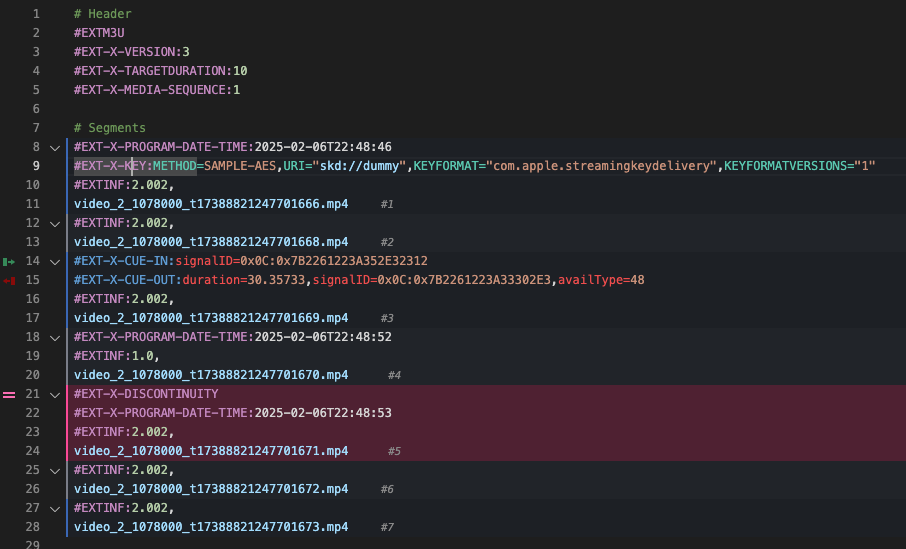
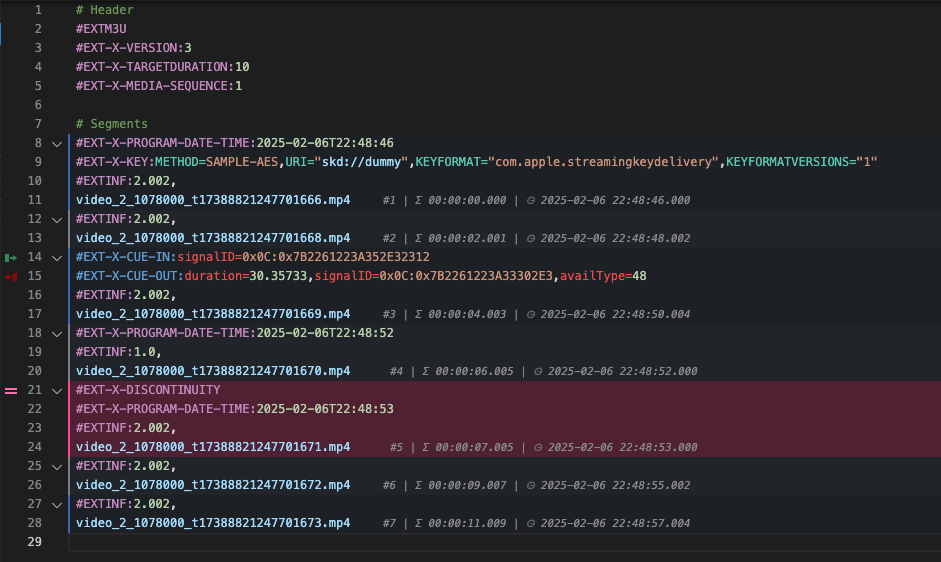
feature: running duration and segment PDT

diff --git a/src/extension.ts b/src/extension.ts
@@ -68,10 +68,12 @@ function getConfiguration() {
     });
 
     return {
-        colorBanding: config.get('colorBanding', true),
-        segmentNumbering: config.get('segmentNumbering', true),
-        folding: config.get('folding', true),
-        gutterIcons: config.get('gutterIcons', true),
+        colorBanding: config.get<boolean>('colorBanding', true),
+        segmentNumbering: config.get<boolean>('segmentNumbering', true),
+        showRunningDuration: config.get<boolean>('showRunningDuration', true),
+        showProgramDateTime: config.get<boolean>('showProgramDateTime', true),
+        folding: config.get<boolean>('folding', true),
+        gutterIcons: config.get<boolean>('gutterIcons', true),
         tagColors,
         defaultColors: config.get<DefaultColors>('defaultColors', {
             odd: {
@@ -432,7 +434,6 @@ function updateDecorations(editor: vscode.TextEditor, context: vscode.ExtensionC
 
     // Load tag definitions
     const tagDefinitions = loadHLSTagDefinitions(context);
-
     const config = getConfiguration();
     const decorationsMap = new Map<string, vscode.DecorationOptions[]>();
     decorationTypes.forEach((_, key) => decorationsMap.set(key, []));
@@ -455,6 +456,13 @@ function updateDecorations(editor: vscode.TextEditor, context: vscode.ExtensionC
     let segmentCount = 0;
     let currentSegmentDecorations: vscode.DecorationOptions[] = [];
     let currentSegmentTags: Set<string> = new Set();
+
+    // Track running duration and program date time
+    let runningDuration = 0;
+    let currentSegmentDuration = 0;
+    let lastPDT: Date | null = null;  // Last PDT (explicit or calculated)
+    let currentExplicitPDT: Date | null = null;  // Explicit PDT for current segment
+    let lastSegmentDuration = 0;  // Duration of the last segment
 
     // Add base decoration for every line
     for (let i = 0; i < document.lineCount; i++) {
@@ -486,6 +494,18 @@ function updateDecorations(editor: vscode.TextEditor, context: vscode.ExtensionC
                 }
             } else if (text.startsWith('#EXT-X-I-FRAME-STREAM-INF:')) {
                 iFrameStreamInfDecorations.push({ range: line.range });
+            } else if (text.startsWith('#EXTINF:')) {
+                // Extract duration from EXTINF tag
+                const durationMatch = text.match(/#EXTINF:([0-9.]+)/);
+                if (durationMatch) {
+                    currentSegmentDuration = parseFloat(durationMatch[1]);
+                }
+            } else if (text.startsWith('#EXT-X-PROGRAM-DATE-TIME:')) {
+                // Extract program date time for current segment
+                const pdtMatch = text.match(/#EXT-X-PROGRAM-DATE-TIME:(.+)/);
+                if (pdtMatch) {
+                    currentExplicitPDT = parseDateTime(pdtMatch[1]);
+                }
             }
 
             // Handle JSON-defined icons and special cases
@@ -545,22 +565,42 @@ function updateDecorations(editor: vscode.TextEditor, context: vscode.ExtensionC
         } else if (!text.startsWith('#')) {
             // Found a URI line
             if (isInSegment) {
-                // Create decoration for this line with segment number
+                // Determine PDT for this segment
+                let segmentPDT: Date | null = null;
+                if (currentExplicitPDT) {
+                    // Use explicit PDT if available
+                    segmentPDT = currentExplicitPDT;
+                    lastPDT = currentExplicitPDT;
+                } else if (lastPDT) {
+                    // Calculate PDT based on last PDT and last segment duration
+                    segmentPDT = new Date(lastPDT.getTime() + lastSegmentDuration * 1000);
+                    lastPDT = segmentPDT;
+                }
+
+                // Create decoration for this line with segment number and timing information
                 const range = line.range;
                 const decoration = {
                     range,
-                    renderOptions: config.segmentNumbering ? {
+                    renderOptions: {
                         after: {
-                            contentText: `#${segmentCount}`,
+                            contentText: [
+                                config.segmentNumbering ? `#${segmentCount}` : '',
+                                config.showRunningDuration ? `Σ ${formatDuration(runningDuration)}` : '',
+                                (config.showProgramDateTime && segmentPDT) ? `⏲ ${formatDateTime(segmentPDT)}` : ''
+                            ].filter(Boolean).join(' | '),
                             color: '#888',
                             margin: '0 3em',
                             backgroundColor: 'transparent',
                             fontStyle: 'italic',
                             fontSize: '90%'
                         }
-                    } : undefined
+                    }
                 };
                 currentSegmentDecorations.push(decoration);
+
+                // Update running duration and store current duration for next segment's PDT calculation
+                runningDuration += currentSegmentDuration;
+                lastSegmentDuration = currentSegmentDuration;
 
                 // Add decorations to appropriate collection if color banding is enabled
                 if (config.colorBanding) {
@@ -581,6 +621,8 @@ function updateDecorations(editor: vscode.TextEditor, context: vscode.ExtensionC
                 isInSegment = false;
                 currentSegmentDecorations = [];
                 currentSegmentTags.clear();
+                currentSegmentDuration = 0;
+                currentExplicitPDT = null;  // Reset explicit PDT for next segment
             }
         }
     }
@@ -634,4 +676,25 @@ export function deactivate() {
     cueDecorationType?.dispose();
     tagIconDecorationTypes.forEach(type => type.dispose());
     tagIconDecorationTypes.clear();
+}
+
+function formatDuration(durationInSeconds: number): string {
+    const hours = Math.floor(durationInSeconds / 3600);
+    const minutes = Math.floor((durationInSeconds % 3600) / 60);
+    const seconds = Math.floor(durationInSeconds % 60);
+    const milliseconds = Math.floor((durationInSeconds % 1) * 1000);
+
+    return `${hours.toString().padStart(2, '0')}:${minutes.toString().padStart(2, '0')}:${seconds.toString().padStart(2, '0')}.${milliseconds.toString().padStart(3, '0')}`;
+}
+
+function parseDateTime(dateTimeStr: string): Date | null {
+    try {
+        return new Date(dateTimeStr);
+    } catch {
+        return null;
+    }
+}
+
+function formatDateTime(date: Date): string {
+    return date.toISOString().replace('T', ' ').replace('Z', '');
 } 

diff --git a/out/extension.js b/out/extension.js
@@ -50,6 +50,8 @@ function getConfiguration() {
     return {
         colorBanding: config.get('colorBanding', true),
         segmentNumbering: config.get('segmentNumbering', true),
+        showRunningDuration: config.get('showRunningDuration', true),
+        showProgramDateTime: config.get('showProgramDateTime', true),
         folding: config.get('folding', true),
         gutterIcons: config.get('gutterIcons', true),
         tagColors,
@@ -365,6 +367,12 @@ function updateDecorations(editor, context) {
     let segmentCount = 0;
     let currentSegmentDecorations = [];
     let currentSegmentTags = new Set();
+    // Track running duration and program date time
+    let runningDuration = 0;
+    let currentSegmentDuration = 0;
+    let lastPDT = null; // Last PDT (explicit or calculated)
+    let currentExplicitPDT = null; // Explicit PDT for current segment
+    let lastSegmentDuration = 0; // Duration of the last segment
     // Add base decoration for every line
     for (let i = 0; i < document.lineCount; i++) {
         const line = document.lineAt(i);
@@ -395,6 +403,20 @@ function updateDecorations(editor, context) {
             }
             else if (text.startsWith('#EXT-X-I-FRAME-STREAM-INF:')) {
                 iFrameStreamInfDecorations.push({ range: line.range });
+            }
+            else if (text.startsWith('#EXTINF:')) {
+                // Extract duration from EXTINF tag
+                const durationMatch = text.match(/#EXTINF:([0-9.]+)/);
+                if (durationMatch) {
+                    currentSegmentDuration = parseFloat(durationMatch[1]);
+                }
+            }
+            else if (text.startsWith('#EXT-X-PROGRAM-DATE-TIME:')) {
+                // Extract program date time for current segment
+                const pdtMatch = text.match(/#EXT-X-PROGRAM-DATE-TIME:(.+)/);
+                if (pdtMatch) {
+                    currentExplicitPDT = parseDateTime(pdtMatch[1]);
+                }
             }
             // Handle JSON-defined icons and special cases
             const iconType = getIconForTag(text, tagDefinitions);
@@ -450,22 +472,41 @@ function updateDecorations(editor, context) {
         else if (!text.startsWith('#')) {
             // Found a URI line
             if (isInSegment) {
-                // Create decoration for this line with segment number
+                // Determine PDT for this segment
+                let segmentPDT = null;
+                if (currentExplicitPDT) {
+                    // Use explicit PDT if available
+                    segmentPDT = currentExplicitPDT;
+                    lastPDT = currentExplicitPDT;
+                }
+                else if (lastPDT) {
+                    // Calculate PDT based on last PDT and last segment duration
+                    segmentPDT = new Date(lastPDT.getTime() + lastSegmentDuration * 1000);
+                    lastPDT = segmentPDT;
+                }
+                // Create decoration for this line with segment number and timing information
                 const range = line.range;
                 const decoration = {
                     range,
-                    renderOptions: config.segmentNumbering ? {
+                    renderOptions: {
                         after: {
-                            contentText: `#${segmentCount}`,
+                            contentText: [
+                                config.segmentNumbering ? `#${segmentCount}` : '',
+                                config.showRunningDuration ? `Σ ${formatDuration(runningDuration)}` : '',
+                                (config.showProgramDateTime && segmentPDT) ? `⏲ ${formatDateTime(segmentPDT)}` : ''
+                            ].filter(Boolean).join(' | '),
                             color: '#888',
                             margin: '0 3em',
                             backgroundColor: 'transparent',
                             fontStyle: 'italic',
                             fontSize: '90%'
                         }
-                    } : undefined
+                    }
                 };
                 currentSegmentDecorations.push(decoration);
+                // Update running duration and store current duration for next segment's PDT calculation
+                runningDuration += currentSegmentDuration;
+                lastSegmentDuration = currentSegmentDuration;
                 // Add decorations to appropriate collection if color banding is enabled
                 if (config.colorBanding) {
                     // Find first matching tag that has a color scheme
@@ -482,6 +523,8 @@ function updateDecorations(editor, context) {
                 isInSegment = false;
                 currentSegmentDecorations = [];
                 currentSegmentTags.clear();
+                currentSegmentDuration = 0;
+                currentExplicitPDT = null; // Reset explicit PDT for next segment
             }
         }
     }
@@ -532,5 +575,23 @@ function deactivate() {
     cueDecorationType?.dispose();
     tagIconDecorationTypes.forEach(type => type.dispose());
     tagIconDecorationTypes.clear();
+}
+function formatDuration(durationInSeconds) {
+    const hours = Math.floor(durationInSeconds / 3600);
+    const minutes = Math.floor((durationInSeconds % 3600) / 60);
+    const seconds = Math.floor(durationInSeconds % 60);
+    const milliseconds = Math.floor((durationInSeconds % 1) * 1000);
+    return `${hours.toString().padStart(2, '0')}:${minutes.toString().padStart(2, '0')}:${seconds.toString().padStart(2, '0')}.${milliseconds.toString().padStart(3, '0')}`;
+}
+function parseDateTime(dateTimeStr) {
+    try {
+        return new Date(dateTimeStr);
+    }
+    catch {
+        return null;
+    }
+}
+function formatDateTime(date) {
+    return date.toISOString().replace('T', ' ').replace('Z', '');
 }
 //# sourceMappingURL=extension.js.map

diff --git a/README.md b/README.md
@@ -5,11 +5,9 @@ Visual Studio Code extension providing language support for M3U8 (HLS) files.
 ## Features
 
 - Syntax highlighting for:
-  - HLS tags
+  - HLS tags, attributes and their values
   - URIs and URLs
-  - Attributes and their values
-  - Numbers and durations
-  - ISO8601 dates
+  - Numbers and durations, date, strings
   - Comments
   - Invalid attributes (as per the HLS specification)
 
@@ -19,7 +17,7 @@ Visual Studio Code extension providing language support for M3U8 (HLS) files.
   - Folding support for segments and associated tags
   - Colour banding of segments for easier reading
     - Including specific colors for segments with chosen tags
-  - Segment number decoration on each line
+  - Segment number decoration on each line, with running duration and (where applicable) program date time
   - Gutter icons for specific tags (in multivariant playlists and for cues and signals)
 - Documentation for HLS tags on hover, and links to the relevant sections of the HLS specification 
 

diff --git a/CHANGELOG.md b/CHANGELOG.md
@@ -1,5 +1,8 @@
 # Change Log
 
+## [1.2.0] - 2025-02-07
+- Running duration and program date time decoration in variant playlists
+
 ## [1.1.0] - 2025-02-07
 
 - Folding support for segments and associated tags
